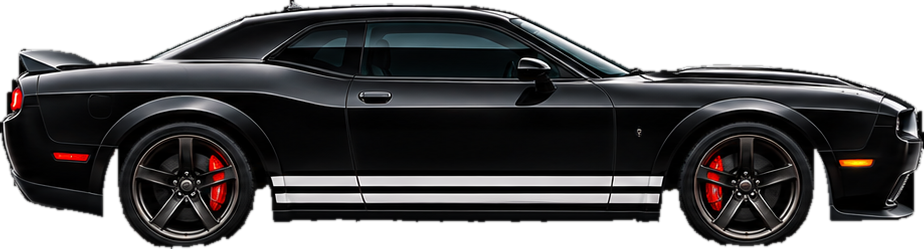
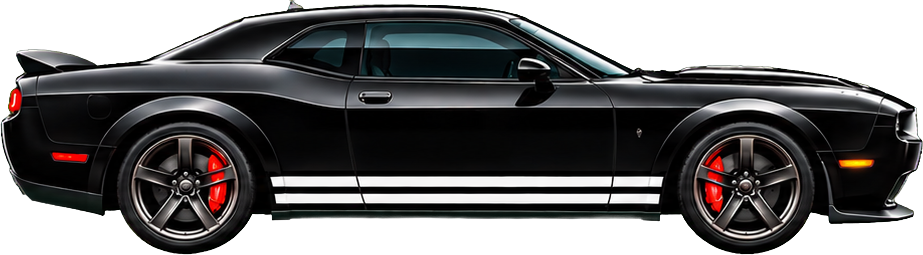
v147: чисті вирізки авто із зеленого фону, ззаду як спереду, збоку повністю в кадрі
Claude-Session: https://claude.ai/code/session_01CUgQ3gYshjF91BcPAm2xfU

diff --git a/app.js b/app.js
@@ -1328,11 +1328,10 @@ const CAR_HUE = { 'Червоний': 0, 'Чорний': 0, 'Жовтий': 45, 
 const CAR_STK = { 'Полум\'я': '🔥', 'Пальми': '🌴', 'Смуги': '〰', 'Череп': '💀' };
 function carView(d) { const i = CAR_VIEWS.indexOf(S.car.view); S.car.view = CAR_VIEWS[((i < 0 ? 0 : i) + d + 4) % 4]; render(); }
 const CAR_VIMG = { 'Спереду': 'front', 'Ззаду': 'back', 'Збоку (ліва)': 'left', 'Збоку (права)': 'right' };
-const CAR_VFILE = { 'Ззаду': 'back', 'Збоку (ліва)': 'left', 'Збоку (права)': 'right' }, CAR_BOX = { front: [223, 258, 497, 294], left: [8, 307, 925, 249], right: [8, 307, 925, 249], back: [217, 205, 505, 351] };
+const CAR_VFILE = { 'Ззаду': 'back', 'Збоку (ліва)': 'left', 'Збоку (права)': 'right' }, CAR_BOX = { front: [223, 258, 497, 294], left: [24, 313, 893, 247], right: [24, 313, 893, 247], back: [243, 232, 455, 320] };
 const CAR_IMG = { 'Чорний': 'black', 'Білий': 'white', 'Жовтий': 'yellow' }, CAR_COLS = ['Червоний', 'Чорний', 'Білий', 'Жовтий'], CAR_COL_HEX = { 'Червоний': '#d22', 'Чорний': '#222', 'Білий': '#eee', 'Жовтий': '#f4c20d' };
 const carOwned = () => { const c = S.car; if (!c.owned) c.owned = ['Червоний']; if (!CAR_COLS.includes(c.color)) c.color = 'Червоний'; if (!c.owned.includes(c.color)) c.owned.push(c.color); return c.owned; };
-function garCarPlace() { const im = $('garCar'), sh = im && im.parentElement; if (!sh) return; const w = sh.clientWidth, h = sh.clientHeight, k = Math.max(w / 941, h / 576), W = 941 * k, H = 576 * k, ox = (w - W) / 2, oy = (h - H) * 0.75; const [bx, bt, bw, bh] = CAR_BOX[im.dataset.v], sd = $('garShd'); Object.assign(im.style, { left: ox + bx * k + 'px', width: bw * k + 'px', top: oy + bt * k + 'px', height: bh * k + 'px' }); if (sd) Object.assign(sd.style, { left: ox + (bx + bw * 0.03) * k + 'px', width: bw * 0.94 * k + 'px', top: oy + (bt + bh - 14) * k + 'px', height: 26 * k + 'px', opacity: im.dataset.v === 'front' ? 0 : 1 }); }
-function carShow() {
+function garCarPlace() { const im = $('garCar'), sh = im && im.parentElement; if (!sh) return; const w = sh.clientWidth, h = sh.clientHeight, k = Math.max(w / 941, h / 576), W = 941 * k, H = 576 * k, ox = (w - W) / 2, oy = (h - H) * 0.75; const [bx, bt, bw, bh] = CAR_BOX[im.dataset.v], sd = $('garShd'), side = im.dataset.v === 'left' || im.dataset.v === 'right'; let L = ox + bx * k, Wc = bw * k, Hc = bh * k, T = oy + bt * k; if (side) { Wc = Math.min(Wc, w * 0.94); Hc = Wc * bh / bw; L = (w - Wc) / 2; T = oy + (bt + bh) * k - Hc; if (T + Hc > h - 8) T = h - 8 - Hc; } Object.assign(im.style, { left: L + 'px', width: Wc + 'px', top: T + 'px', height: Hc + 'px' }); if (sd) Object.assign(sd.style, { left: L + Wc * 0.03 + 'px', width: Wc * 0.94 + 'px', top: T + Hc - 12 * k + 'px', height: 26 * k + 'px', opacity: im.dataset.v === 'front' ? 0 : 1 }); }function carShow() {
   const c = S.car, v = c.view || 'Спереду', front = v === 'Спереду', cc = Math.round(carCond()); carOwned(); after.push(garCarPlace);
   const file = front ? (CAR_IMG[c.color] ? 'car_' + CAR_IMG[c.color] : '') : 'car_' + (CAR_IMG[c.color] || 'red') + '_' + CAR_VFILE[v];
   return `<div class="garShow" style="${front ? '' : 'background-image:url(img/gar/bg_empty.jpg)'}">
@@ -2741,7 +2740,7 @@ SCREENS.settings = p => {
 const b64u = u8 => { let s = ''; for (let i = 0; i < u8.length; i += 8192) s += String.fromCharCode.apply(null, u8.subarray(i, i + 8192)); return btoa(s).replace(/\+/g, '-').replace(/\//g, '_').replace(/=+$/, ''); };
 const unb64u = t => { t = t.replace(/-/g, '+').replace(/_/g, '/'); while (t.length % 4) t += '='; const s = atob(t), u = new Uint8Array(s.length); for (let i = 0; i < s.length; i++) u[i] = s.charCodeAt(i); return u; };
 async function zip(str, mode) { const st = mode === 'c' ? new Blob([str]).stream().pipeThrough(new CompressionStream('deflate-raw')) : new Blob([str]).stream().pipeThrough(new DecompressionStream('deflate-raw')); return new Uint8Array(await new Response(st).arrayBuffer()); }
-const BUILD = 'v146';
+const BUILD = 'v147';
 const BOT = 'PotuzhneMisto_bot', PAGE = 'https://stasiya408-dev.github.io/tg-miniapp/';
 async function saveExport() {
   const o = Object.assign({}, S, { mail: [] }), t = b64u(await zip(JSON.stringify(o), 'c'));

diff --git a/index.html b/index.html
@@ -238,4 +238,4 @@ button .ico{display:block;margin:0 auto 2px;float:none}
   <div id="toast"></div>
   <div id="modal"><div class="in" id="modalIn"></div></div>
 </div>
-<script src="app.js?v=1795077710"></script>
+<script src="app.js?v=1795078088"></script>
